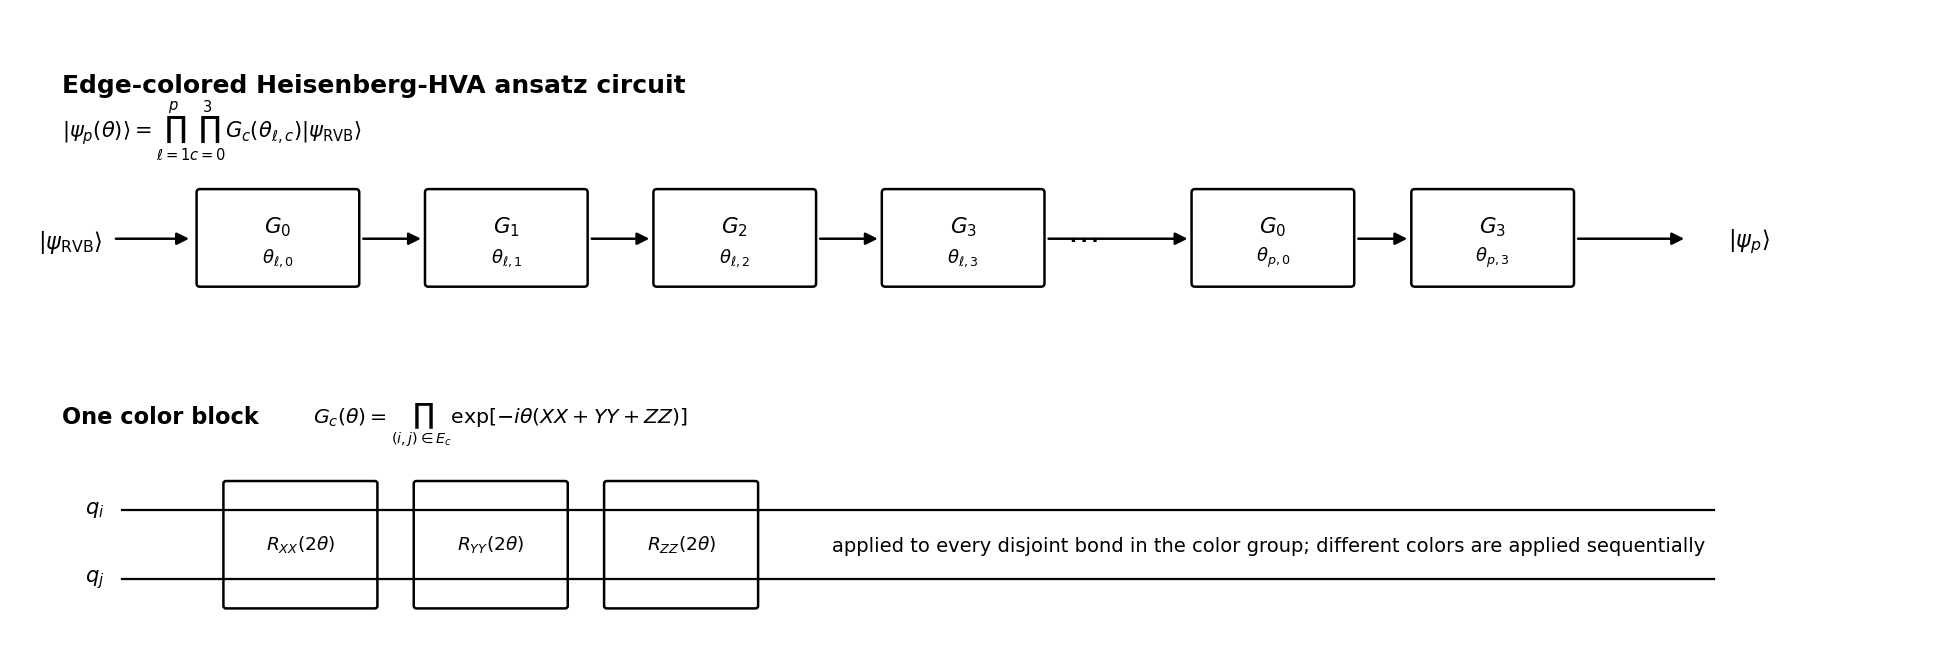
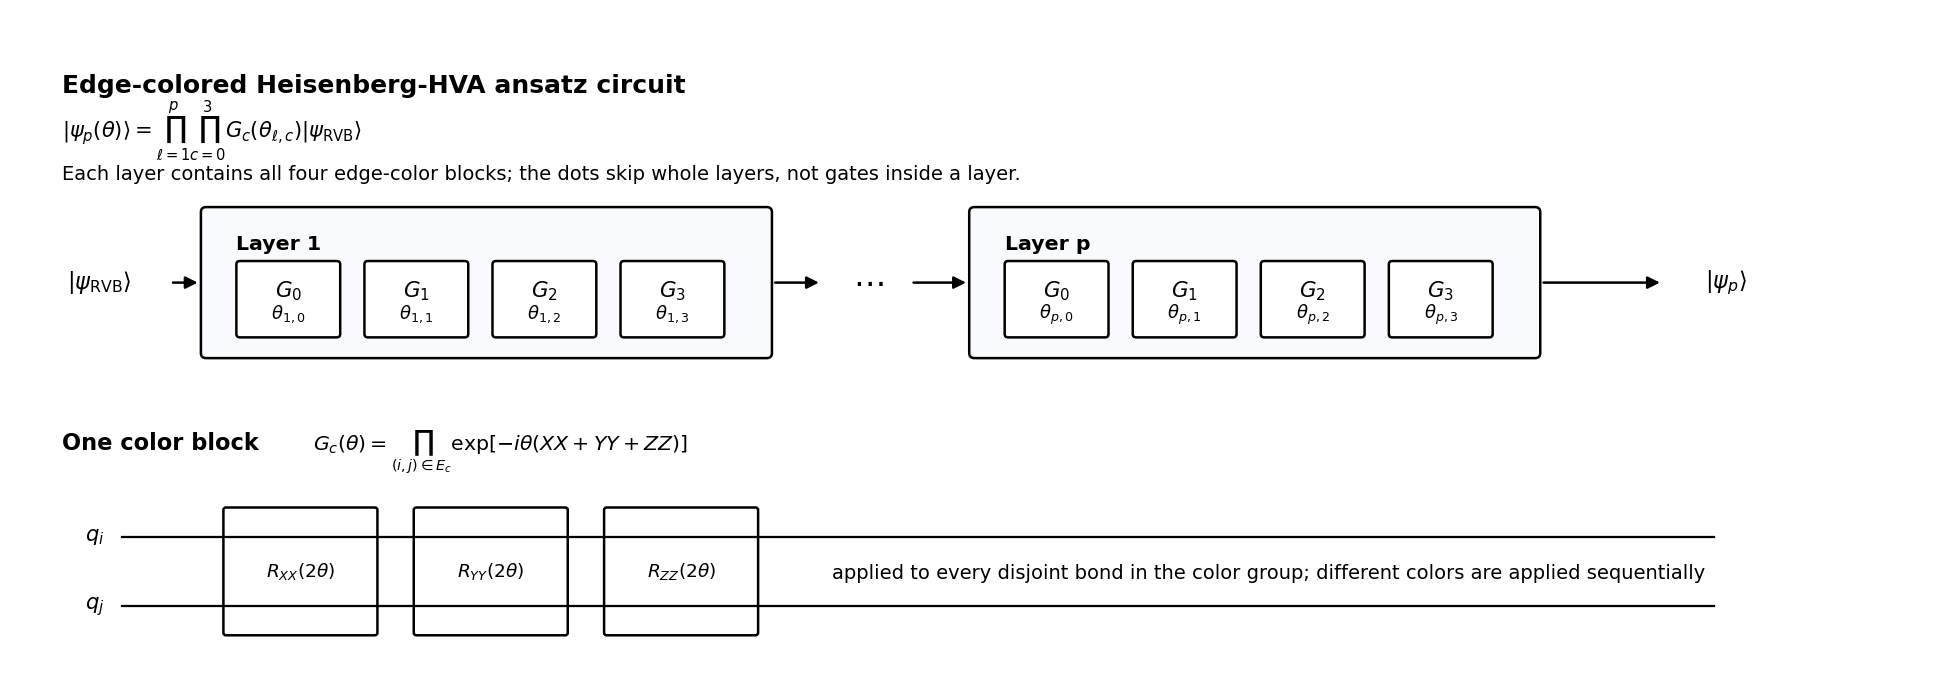
Verify and clarify HVA ansatz circuit

diff --git a/scripts/make_figures.py b/scripts/make_figures.py
@@ -452,9 +452,9 @@ def plot_workflow_flowchart(output: Path) -> None:
 
 
 def plot_ansatz_circuit_schematic(output: Path) -> None:
-    fig, ax = plt.subplots(figsize=(10.8, 3.7))
+    fig, ax = plt.subplots(figsize=(10.8, 3.85))
     ax.set_xlim(0, 10.8)
-    ax.set_ylim(0, 3.7)
+    ax.set_ylim(0, 3.85)
     ax.axis("off")
 
     def arrow(x0: float, y0: float, x1: float, y1: float) -> None:
@@ -486,28 +486,54 @@ def plot_ansatz_circuit_schematic(output: Path) -> None:
         if subtitle:
             ax.text(x + w / 2, y + 0.28 * h, subtitle, ha="center", va="center", fontsize=7.2)
 
-    ax.text(0.20, 3.30, "Edge-colored Heisenberg-HVA ansatz circuit", fontsize=10.0, fontweight="bold")
+    def layer_box(x: float, y: float, label: str, layer_index: str) -> None:
+        outer = FancyBboxPatch(
+            (x, y),
+            3.25,
+            0.86,
+            boxstyle="round,pad=0.025,rounding_size=0.03",
+            linewidth=1.0,
+            edgecolor="black",
+            facecolor="#f8fafc",
+        )
+        ax.add_patch(outer)
+        ax.text(x + 0.18, y + 0.66, label, ha="left", va="center", fontsize=8.2, fontweight="bold")
+        for color_index in range(4):
+            gx = x + 0.20 + color_index * 0.74
+            block(
+                gx,
+                y + 0.12,
+                0.56,
+                0.42,
+                rf"$G_{color_index}$",
+                rf"$\theta_{{{layer_index},{color_index}}}$",
+            )
+
+    ax.text(0.20, 3.45, "Edge-colored Heisenberg-HVA ansatz circuit", fontsize=10.0, fontweight="bold")
     ax.text(
         0.20,
-        3.03,
+        3.18,
         r"$|\psi_p(\theta)\rangle=\prod_{\ell=1}^{p}\prod_{c=0}^{3}G_c(\theta_{\ell,c})|\psi_{\rm RVB}\rangle$",
         fontsize=8.4,
     )
+    ax.text(
+        0.20,
+        2.93,
+        "Each layer contains all four edge-color blocks; the dots skip whole layers, not gates inside a layer.",
+        fontsize=7.8,
+    )
 
-    y = 2.15
-    ax.text(0.25, y + 0.25, r"$|\psi_{\rm RVB}\rangle$", fontsize=9.0, ha="center", va="center")
-    x_positions = [1.00, 2.32, 3.64, 4.96]
-    labels = ["color 0", "color 1", "color 2", "color 3"]
-    for x, label in zip(x_positions, labels):
-        block(x, y, 0.90, 0.55, rf"$G_{label[-1]}$", rf"$\theta_{{\ell,{label[-1]}}}$")
-    ax.text(6.10, y + 0.27, r"$\cdots$", fontsize=13, ha="center", va="center")
-    block(6.75, y, 0.90, 0.55, r"$G_0$", r"$\theta_{p,0}$")
-    block(8.02, y, 0.90, 0.55, r"$G_3$", r"$\theta_{p,3}$")
-    ax.text(9.95, y + 0.25, r"$|\psi_p\rangle$", fontsize=9.0, ha="center", va="center")
+    y = 1.88
+    ax.text(0.42, y + 0.43, r"$|\psi_{\rm RVB}\rangle$", fontsize=9.0, ha="center", va="center")
+    layer_box(1.03, y, "Layer 1", "1")
+    ax.text(4.86, y + 0.43, r"$\cdots$", fontsize=13, ha="center", va="center")
+    layer_box(5.47, y, "Layer p", "p")
+    ax.text(9.82, y + 0.43, r"$|\psi_p\rangle$", fontsize=9.0, ha="center", va="center")
 
-    arrow(0.47, y + 0.27, 0.98, y + 0.27)
-    for x0, x1 in [(1.90, 2.32), (3.22, 3.64), (4.54, 4.96), (5.86, 6.75), (7.65, 8.02), (8.92, 9.62)]:
-        arrow(x0, y + 0.27, x1, y + 0.27)
+    arrow(0.80, y + 0.43, 1.03, y + 0.43)
+    arrow(4.28, y + 0.43, 4.62, y + 0.43)
+    arrow(5.08, y + 0.43, 5.47, y + 0.43)
+    arrow(8.72, y + 0.43, 9.48, y + 0.43)
 
     ax.text(0.20, 1.30, "One color block", fontsize=9.0, fontweight="bold")
     ax.text(

diff --git a/tests/test_core_invariants.py b/tests/test_core_invariants.py
@@ -137,6 +137,50 @@ def test_qiskit_ansatz_energy_matches_numpy_small_patch() -> None:
     assert energy_qiskit == pytest.approx(energy_numpy, abs=1e-10)
 
 
+def test_qiskit_grouped_19site_ansatz_state_matches_numpy() -> None:
+    pytest.importorskip("qiskit")
+    from qiskit.quantum_info import Statevector
+
+    bonds, groups = load_bonds_with_groups_csv(PROJECT_ROOT / "data" / "19site_bonds.csv")
+    theta = np.linspace(-0.07, 0.09, 4)
+    circuit, params = build_heisenberg_ansatz(
+        19,
+        bonds,
+        layers=1,
+        parameterization="grouped",
+        initial_state="singlet_pairs",
+        bond_groups=groups,
+    )
+    assert len(params) == 4
+    assert dict(circuit.count_ops()) == {
+        "rxx": 30,
+        "ryy": 30,
+        "rzz": 30,
+        "x": 9,
+        "h": 9,
+        "cx": 9,
+        "z": 9,
+    }
+
+    assigned = circuit.assign_parameters(dict(zip(params, theta)), inplace=False)
+    state_qiskit = np.asarray(Statevector.from_instruction(assigned).data)
+    state_numpy = heisenberg_statevector_numpy(
+        19,
+        bonds,
+        layers=1,
+        parameters=theta,
+        parameterization="grouped",
+        initial_state="singlet_pairs",
+        bond_groups=groups,
+    )
+
+    overlap = np.vdot(state_numpy, state_qiskit)
+    fidelity = abs(overlap) ** 2
+    assert fidelity == pytest.approx(1.0, abs=1e-12)
+    state_qiskit_without_global_phase = state_qiskit / (overlap / abs(overlap))
+    np.testing.assert_allclose(state_qiskit_without_global_phase, state_numpy, atol=1e-12)
+
+
 def test_sector_hva_matches_full_hva_and_preserves_sector() -> None:
     bonds, groups = load_bonds_with_groups_csv(PROJECT_ROOT / "data" / "19site_bonds.csv")
     exact = load_sector_exact_result(PROJECT_ROOT / "results" / "19site_fixed_sz_exact_n9.npz")